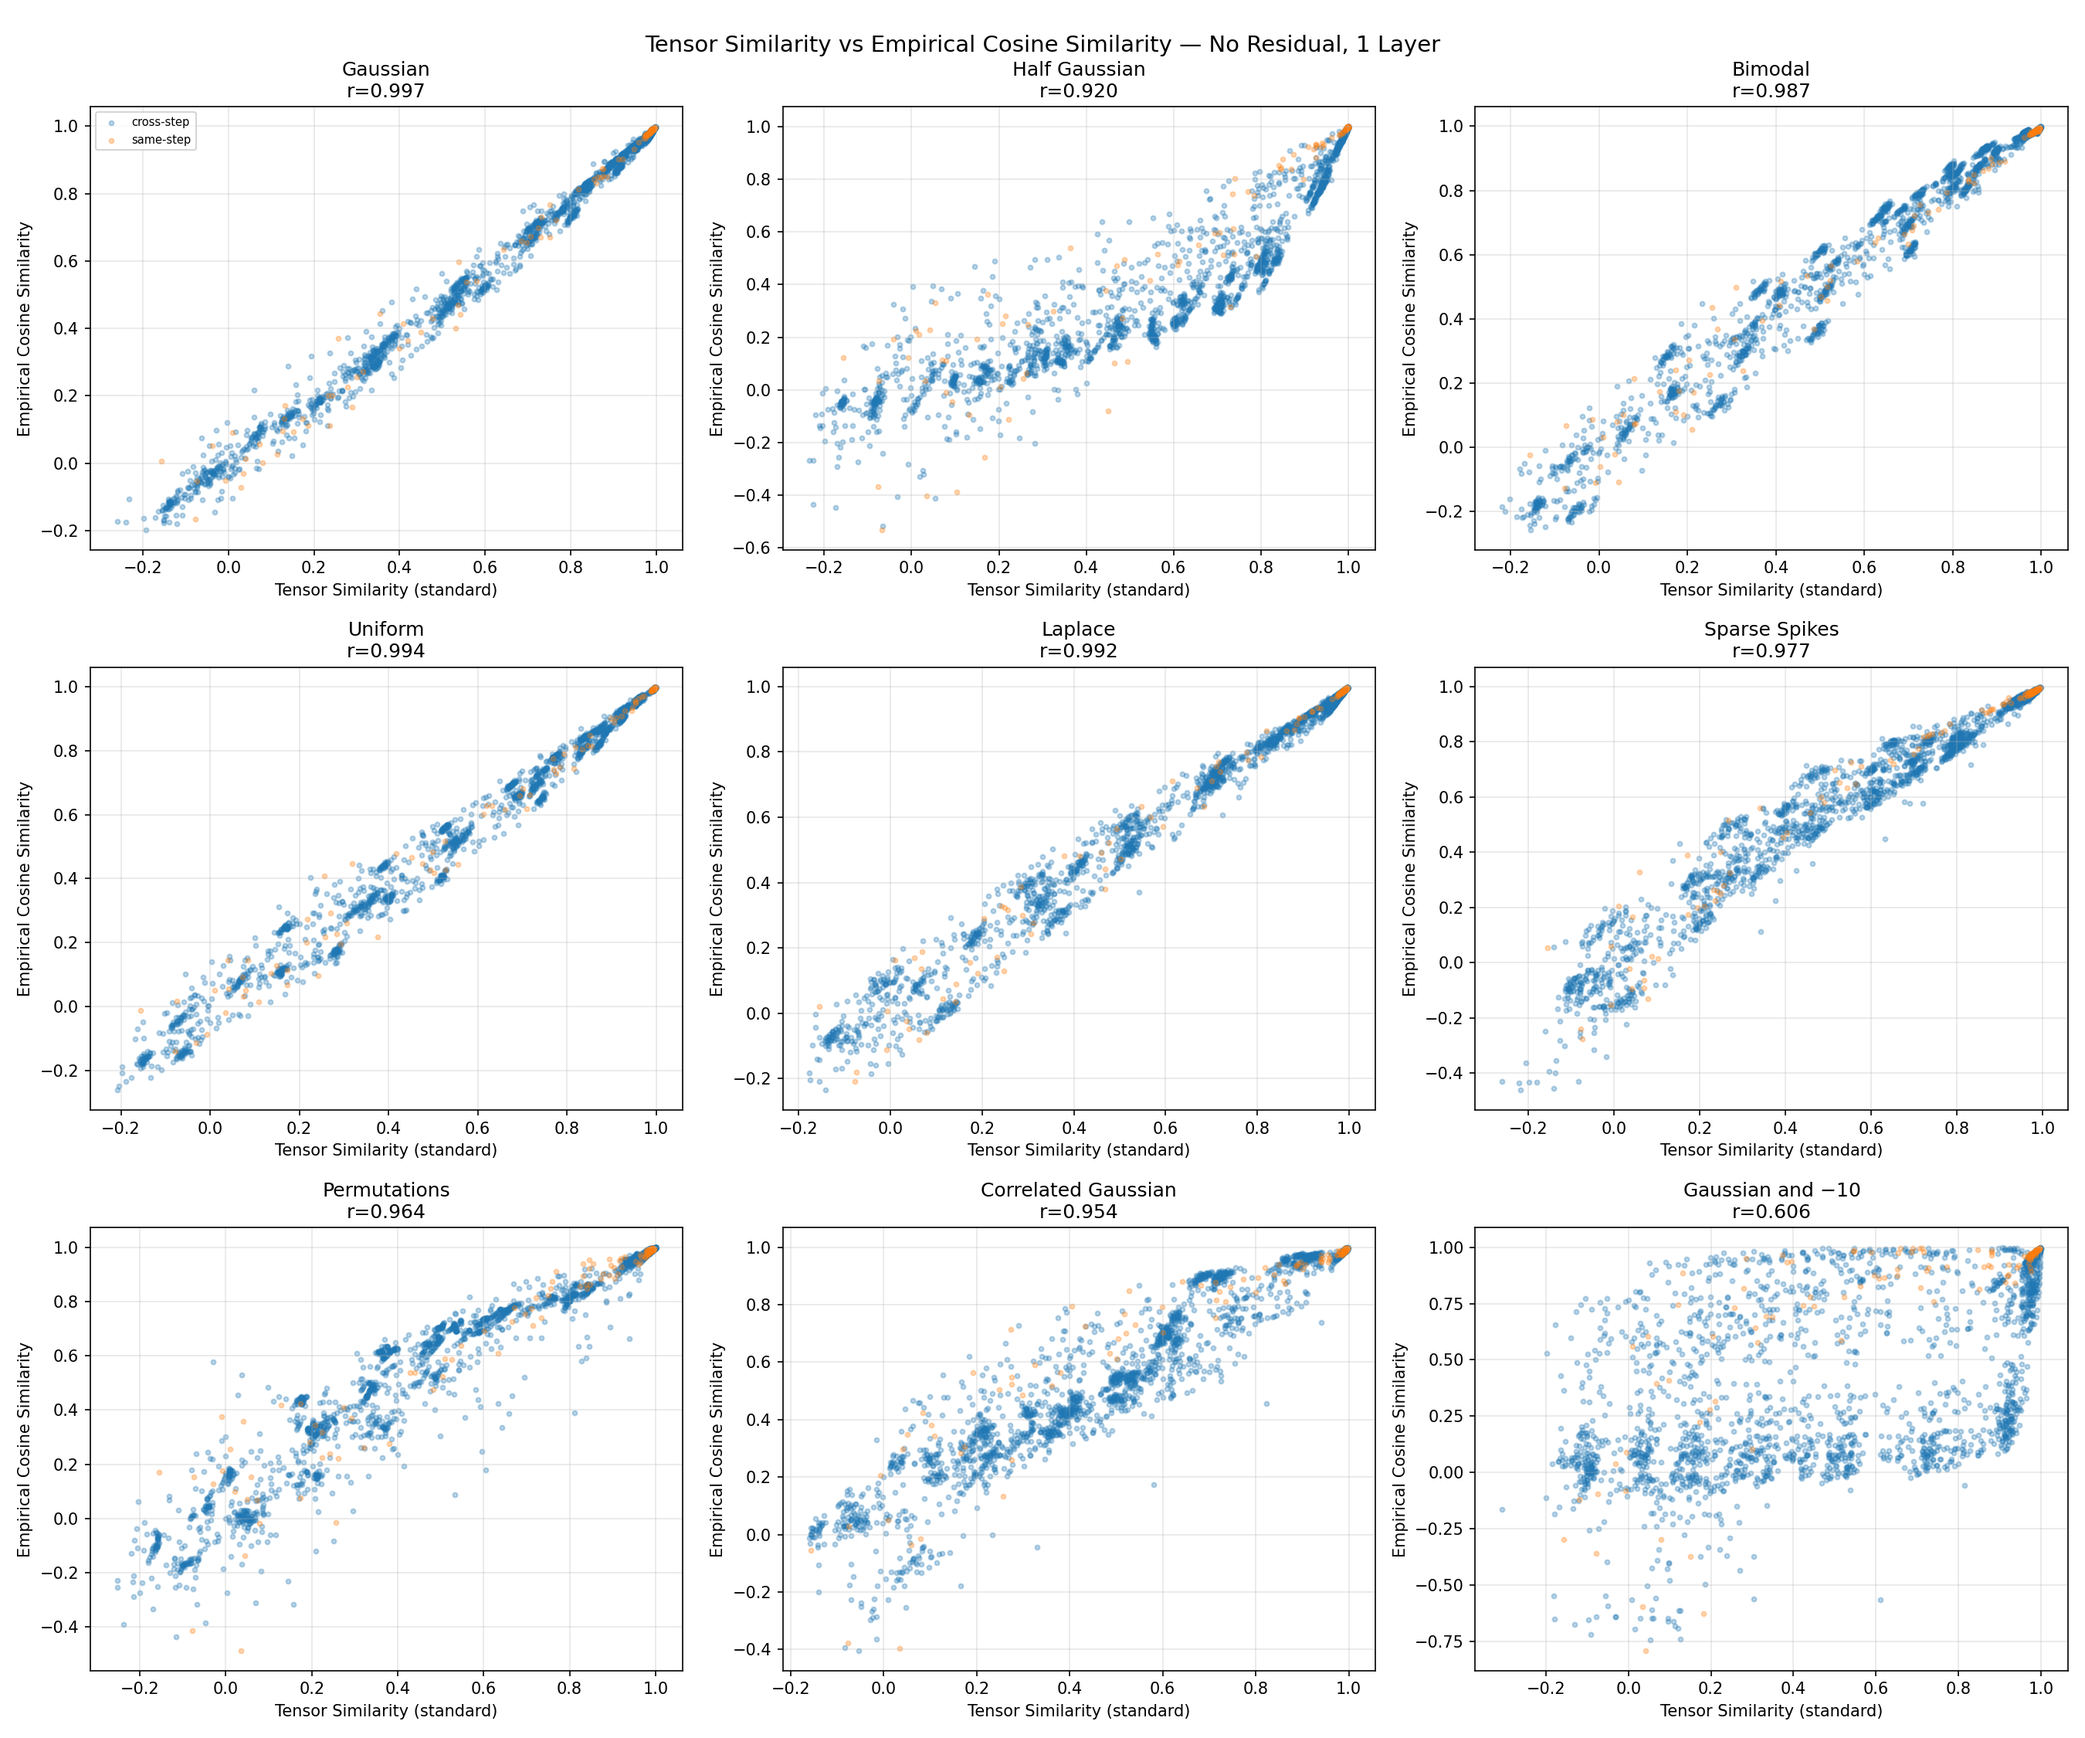
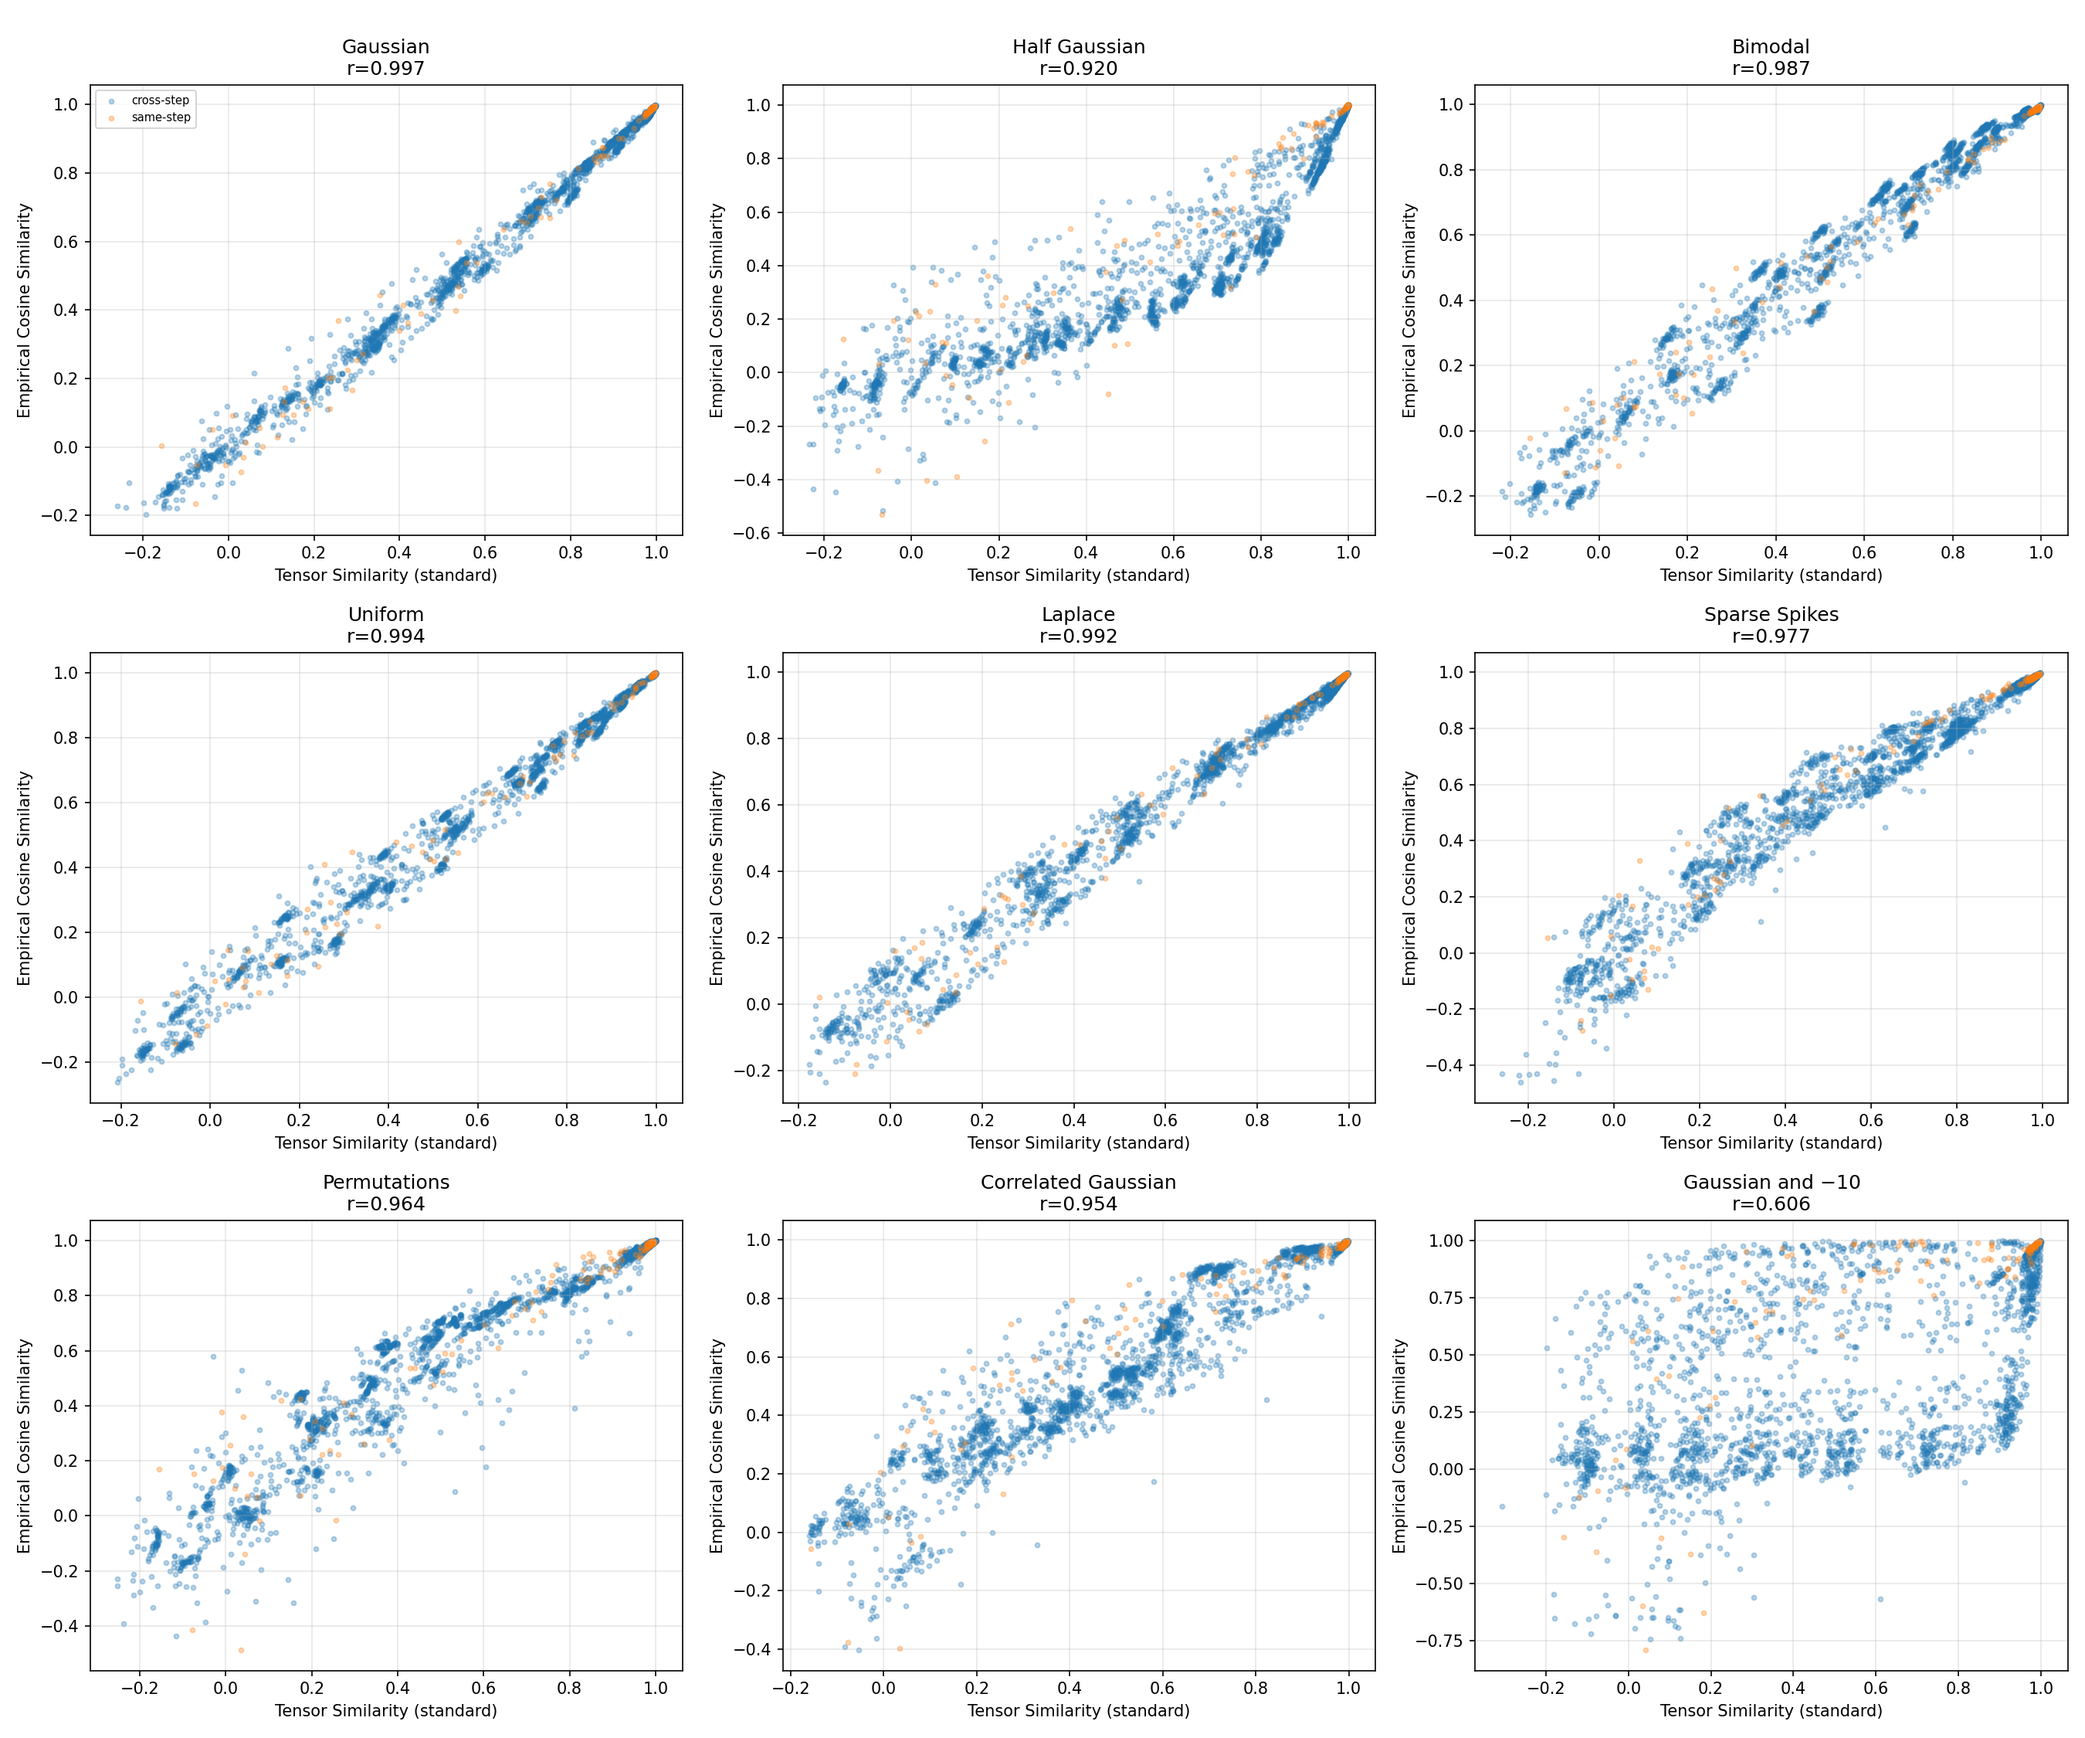
Remove scatter grid title

diff --git a/workspaces/jacob/tensor_similarity_distribution_robustness/plot.py b/workspaces/jacob/tensor_similarity_distribution_robustness/plot.py
@@ -75,7 +75,7 @@ for idx, dist_name in enumerate(dist_names):
 for idx in range(n_dists, len(axes)):
     axes[idx].set_visible(False)
 
-plt.suptitle('Tensor Similarity vs Empirical Cosine Similarity — No Residual, 1 Layer', fontsize=14)
+plt.suptitle('', fontsize=14)
 plt.tight_layout()
 plt.savefig(os.path.join(RESULTS_DIR, 'scatter_grid.png'), dpi=150)
 plt.close()
